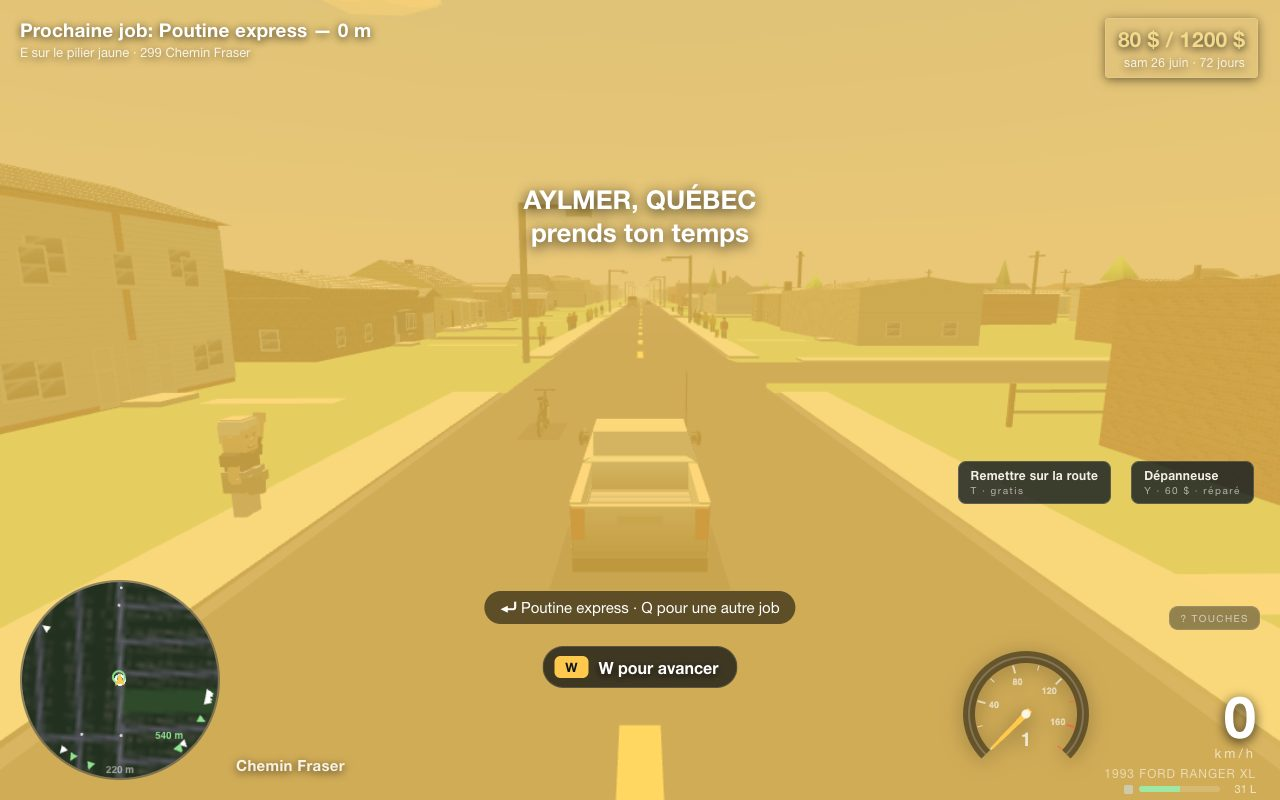
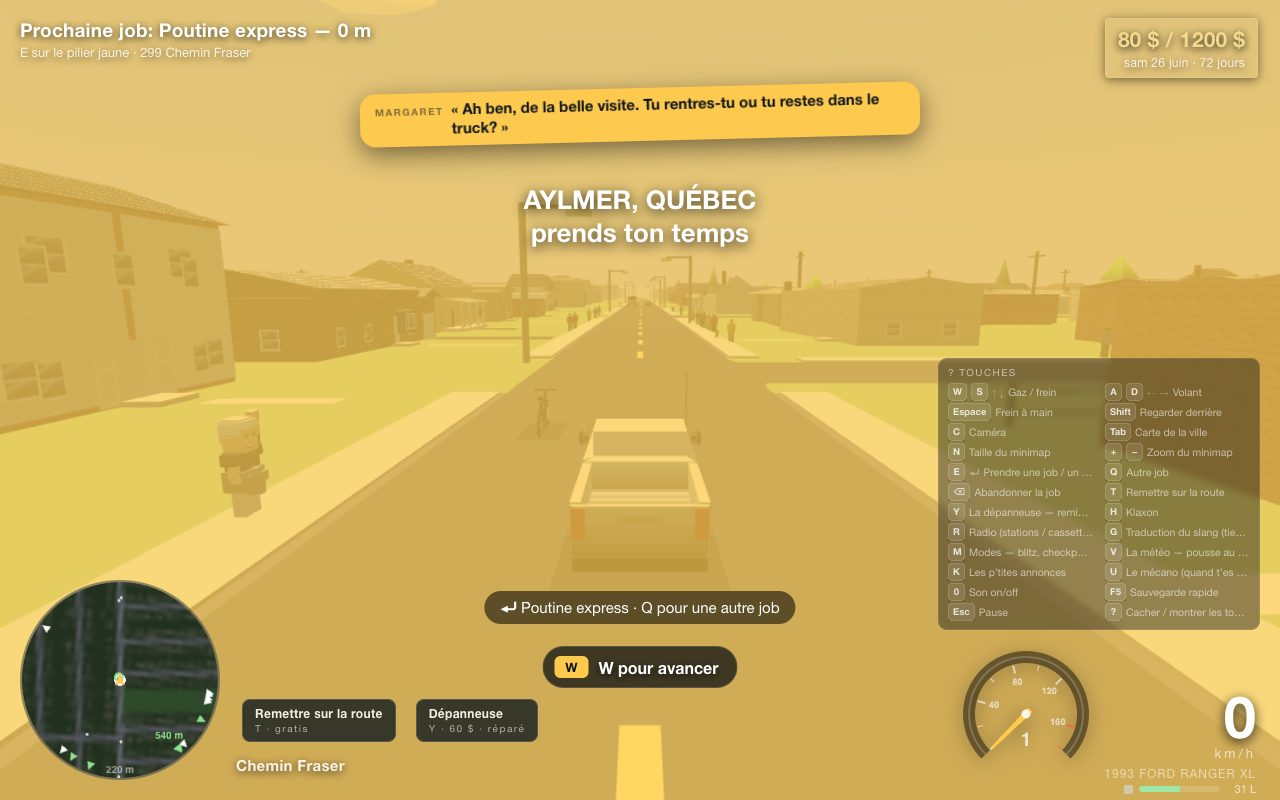
The reset and tow buttons move off the key legend
Thomas: « the new keys T and Y are overlaid and you can't read the controls. »
The two buttons sat at right:20px / bottom:296px, which is inside the legend's
box whenever the legend is open (its rows run from bottom:170px up past 400).
Bottom-left, above the street name at left:236px, is nobody else's corner:
measured in the browser with the legend open, the buttons overlap neither the
legend, the street label nor the minimap.

Claude-Session: https://claude.ai/code/session_013e1DYWDnzHfXebmEwcFLmt

diff --git a/style.css b/style.css
@@ -409,9 +409,12 @@ body.modal #radio{display:none !important}
    it only has the town behind it, so it can be what it always meant to be. */
 body.modal #pause{background:rgba(6,10,13,.9)}
 
-/* Getting unstuck (free) and the flatbed (paid): two buttons above the key
-   legend, for the player who does not know T and Y exist. */
-#towbtns{position:absolute;right:20px;bottom:296px;display:flex;gap:8px;pointer-events:auto;z-index:5}
+/* Getting unstuck (free) and the flatbed (paid): two buttons for the player
+   who does not know T and Y exist. They used to sit above the key legend on
+   the right, which is exactly where the legend's rows are when it is open —
+   Thomas could not read the controls under them. Bottom-left, above the
+   street name, is nobody else's corner. */
+#towbtns{position:absolute;left:236px;bottom:58px;display:flex;gap:8px;pointer-events:auto;z-index:5}
 #towbtns button{font:inherit;color:#f4efe6;background:rgba(12,22,30,.78);border:1px solid rgba(255,255,255,.16);
   border-radius:8px;padding:7px 12px;text-align:left;cursor:pointer;line-height:1.15;min-width:120px}
 #towbtns button:hover{background:rgba(255,201,77,.18);border-color:rgba(255,201,77,.55)}
